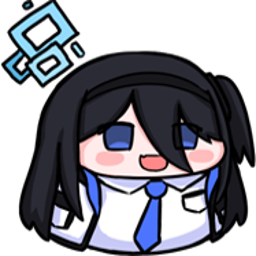
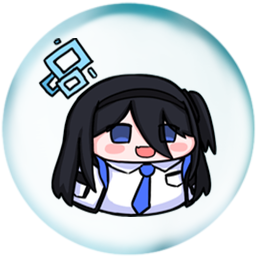
이미지 버블로 수정

diff --git a/index.js b/index.js
@@ -415,26 +415,44 @@
   function newBall(x, y, size) {
     if (size === 1) size = 2;  // Adjust the first size to the second size
     
-    let polyBody;
-
-    const radius = size*11; // Adjust this value for the desired size of the nonagon
-      polyBody = Bodies.polygon(x, y, 9, radius, {
-          render: {
-              sprite: {
-                  texture: `assets/img/${size-1}.png`,
-                  xScale: size / 12.75 * 1.2,  // Scale by 1.8
-                  yScale: size / 12.75 * 1.2,  // Scale by 1.8
-              },
-          }
-    });
-
-    // Add attributes to the body
-    polyBody.size = size;
-    polyBody.createdAt = Date.now();
-    polyBody.restitution = 0.2;
-    polyBody.friction = 0.6;
-    polyBody.merged = false;
-
-    return polyBody;
+    if((size-1)==3) {
+      let polyBody;
+  
+      const radius = size*11; // Adjust this value for the desired size of the nonagon
+        polyBody = Bodies.polygon(x, y, 9, radius, {
+            render: {
+                sprite: {
+                    texture: `assets/img/${size-1}.png`,
+                    xScale: size / 12.75 * 1.2,  // Scale by 1.8
+                    yScale: size / 12.75 * 1.2,  // Scale by 1.8
+                },
+            }
+      });
+  
+      // Add attributes to the body
+      polyBody.size = size;
+      polyBody.createdAt = Date.now();
+      polyBody.restitution = 0.2;
+      polyBody.friction = 0.6;
+      polyBody.merged = false;
+  
+      return polyBody;
+    }else{
+      c = Bodies.circle(x, y, size * 10 * 1.5, {  // 1.8배로 늘림
+        render: {
+          sprite: {
+            texture: `assets/img/${size-1}.png`,
+            xScale: size / 12.75 * 1.5,  // 1.8배로 늘림
+            yScale: size / 12.75 * 1.5,  // 1.8배로 늘림
+          },
+        },
+      });
+      c.size = size;
+      c.createdAt = Date.now();
+      c.restitution = 0.2;
+      c.friction = 0.6;
+      c.merged = false;
+      return c;
+    }
   }
 })();
